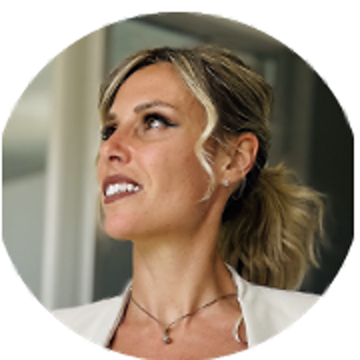
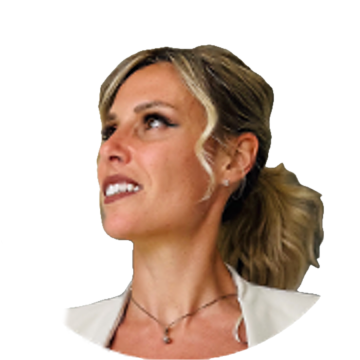
style(intesa-esperienza-cliente): il team a colori, scontornato su un fondo solo
Il bianco e nero del giro precedente era la scelta sbagliata: toglieva il
colore alle persone vere che saranno in sala mentre Giulia, la persona
inventata, resta a colori; era un trattamento che il deck non usa da
nessun'altra parte; e non risolveva il problema vero, che erano gli
sfondi (rosso, verde acqua, mattoni, una bandiera), la luce e il taglio.
- Sette ritratti scontornati in locale (riconoscimento del soggetto di
  macOS, nessun file uscito dalla macchina), a colori.
- Un fondo solo per tutti, dal CSS: una luce verde della skin dall'alto.
- Su Ellena e De Matteis due pezzi di sfondo che lo scontorno teneva come
  parte della persona tolti a mano.
- Via filtro grigio e ingrandimenti: l'anello impresso nel ritratto di
  Gargiulo se ne va con lo scontorno. Il suo ritaglio resta più stretto
  sul viso: per pareggiarlo serve la foto originale.

Gate: audit:deck adobe 0 HARD; audit:ink pulito.

Claude-Session: https://claude.ai/code/session_01TQoJuy65MFfYL2rfj5zkKg

diff --git a/apps/intesa-esperienza-cliente/src/styles/global.css b/apps/intesa-esperienza-cliente/src/styles/global.css
@@ -2567,14 +2567,17 @@ img.im-marchio { width: auto; height: 100%; object-fit: contain; object-position
    ⚠ Sette colonne stanno solo finché la pagina è larga. Sotto i 1200px
    diventano quattro più tre — mai sette strette, che manderebbero i nomi
    a capo ogni due lettere. */
-/* Sette ritratti presi da fonti diverse (sfondi rosso, teal, mattoni,
-   una bandiera; tagli e luci diversi) leggevano come sette figurine.
-   In bianco e nero, a contrasto pari, diventano una squadra: lo sfondo
-   smette di parlare e restano le facce. Il ritratto cresce (era ~100px a
-   1920) perché in sala è la sola cosa da guardare.
+/* Sette ritratti presi da fonti diverse (sfondi rosso, verde acqua,
+   mattoni, una bandiera) leggevano come sette figurine. Sono scontornati
+   (vedi adobe.astro) e qui stanno tutti sullo STESSO fondo, quello della
+   skin: a colori, perché sono le persone vere che saranno in sala e il
+   resto del deck è a colori. Il bianco e nero, provato prima, faceva il
+   contrario: grigie le persone vere, a colori Giulia.
+   Il ritratto è grande (~157px a 1920) perché in sala è la sola cosa da
+   guardare.
    ⚠ `align-content: start` sulla voce: con un ruolo su due righe la
    griglia allungava la riga del ritratto e il nome saliva di 6px rispetto
-   ai vicini. Ora i nomi stanno tutti sulla stessa linea. */
+   ai vicini. */
 .im-team {
   list-style: none; margin: clamp(1.4rem, 2.2vw, 3.6rem) 0 0; padding: 0;
   display: grid; grid-template-columns: repeat(7, minmax(0, 1fr));
@@ -2587,14 +2590,14 @@ img.im-marchio { width: auto; height: 100%; object-fit: contain; object-position
 .im-team-ft {
   display: block; width: clamp(5.4rem, 8.2vw, 15rem); aspect-ratio: 1;
   margin-bottom: 0.7rem; border-radius: 999px;
-  /* I ritagli d'origine sono cerchi su un quadrato bianco: al 100%
-     l'angolo bianco affiora come un anello sul bordo, quindi si
-     ingrandisce lo sfondo, non l'elemento. */
-  background: #1a2a18 center / 114% no-repeat;
-  filter: grayscale(1) contrast(1.06) brightness(1.02);
+  /* Il ritratto è lo SFONDO del cerchio, non un <img> ingrandito: un
+     <img> scalato dentro un contenitore con overflow nascosto era uno
+     scroll nascosto per `audit:deck` (check c e k, HARD). Sotto il
+     ritratto scontornato, il fondo comune: una luce verde dall'alto. */
+  background: var(--ritratto) center / 100% no-repeat,
+    radial-gradient(circle at 50% 36%, #4a8a30 0%, #23571a 48%, #0f2f05 100%);
   box-shadow: 0 0 0 2px rgba(255, 255, 255, 0.22), 0 0.9rem 2.2rem -0.8rem rgba(0, 0, 0, 0.55);
 }
-.im-team-ft[data-zoom] { background-size: 128%; }
 .im-team-n {
   font-size: clamp(1rem, 0.94vw, 2.1rem); font-weight: 700;
   line-height: 1.2; color: #ffffff; text-wrap: balance;
